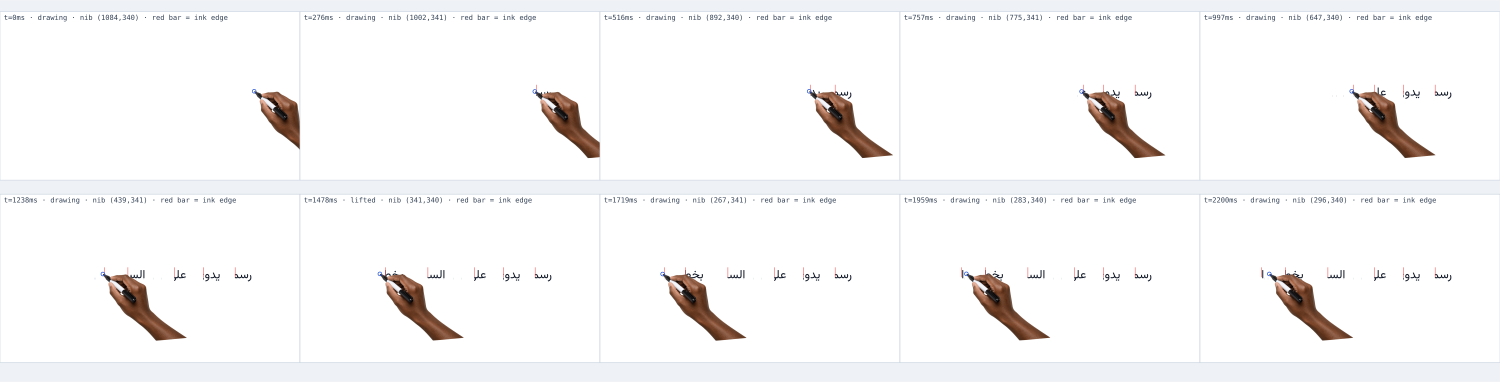
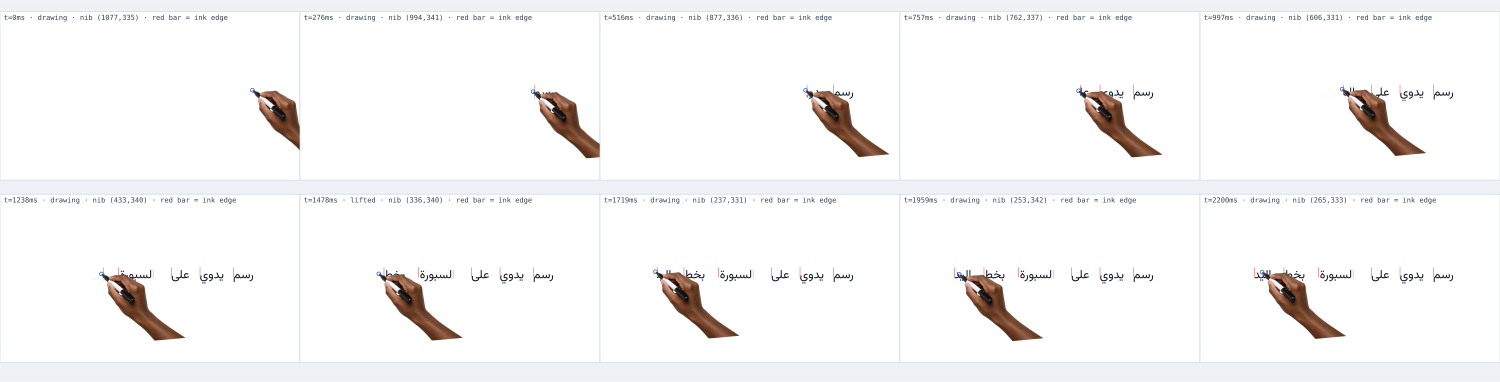
وايت بورد: مسار القلم من الحروف نفسها (inkProfile) بدل خطّ أساس مستقيم
حدّ القصّ يعرف كم زحف الحبر ولا يعرف أين داخل الحرف القلم. الآن تُرسم الكلمة مرة
واحدة على canvas مصغّر خارج الشاشة ويُقرأ لكل عمود ارتفاع الحبر الحقيقي (mid/mass)
ومنسوب إلى خطّ القلم 82% نفسه الذي يستخدمه المحرّك لـ unit.y:

- hand.ts: السنّ يمشي على المسار (يصعد مع لام/ألف ويهبط مع كأس س/ع) والرسغ يميل
  مع الميل المحلي (حتى ±16°) على wristTilt القائم؛ الأعمدة الفارغة تحمل آخر ارتفاع
  والأعمدة المجاورة تُعدَّل بمتوسّط مرجّح؛ بلا canvas (jsdom) يعود إلى خطّ الأساس.
- inkProfile.ts: inkProfileFor/inkHeightAt/inkSlopeAt + كاش بمفتاح الخط والنصّ،
  وPEN_LINE_FRAC=0.82، وكل دالة قابلة للاختبار بلا canvas.
- المحرّك يقيس المسار لكل كلمة ويمرّره مع الكتل إلى اليد (stream.profiles).
- إصلاح ترتيب في §13: كان يبني المحرّك قبل تثبيت أبعاد الصناديق فيسقط القياس.
- الاختبارات 759 (كانت 744): §15 للمسار (اتجاهان، فجوات، ميل، حماية من القسمة على
  صفر) + e2e يؤكد أن السنّ يترك خطّ الأساس ويركب ميل الحروف فعليًا.
- الأدلة البصرية: docs/hand-writing.gif و docs/hand-text.png أُعيد توليدهما بمسارات
  مقيسة من مخططات HarfBuzz الحقيقية (raster-cols.mjs عبر sharp).

diff --git a/src/animation/inkProfile.ts b/src/animation/inkProfile.ts
@@ -1,0 +1,147 @@
+/**
+ * The pen path of a shaped run, read from the glyphs themselves.
+ *
+ * A clip edge only knows *how far* the ink has advanced; it cannot know *where inside the letter*
+ * the pen is. So we rasterise the run once, offscreen, and record — for every column — where the
+ * ink actually sits (its mean height) and how much of it there is. The nib then travels along that
+ * path instead of gliding on a straight rule at the baseline, and the wrist tilts with the local
+ * slope: the letter's own shape drives the hand, which is what a drawn-glyph pipeline gives you
+ * and a plain mask cannot.
+ *
+ * Everything degrades gracefully: no canvas (jsdom, SSR) or an unmeasurable run → `null`, and the
+ * caller keeps the straight rule.
+ */
+
+export interface InkProfile {
+  /** how many columns were sampled across the run */
+  n: number
+  /** mean ink height per column, in *raster* px relative to the run's pen line (NaN = empty column) */
+  mid: number[]
+  /** inked fraction of each column, 0..1 (a dot is thin: the pen still passes through it) */
+  mass: number[]
+  /** the raster's width in px (mid/mass are indexed over `n` columns of this width) */
+  width: number
+}
+
+/** Cache keyed by font + text: the same slide animates the same words twice. */
+const profileCache = new Map<string, InkProfile | null>()
+let scratch: HTMLCanvasElement | null | undefined
+
+function scratchCanvas(): HTMLCanvasElement | null {
+  if (scratch !== undefined) return scratch
+  try {
+    scratch = document.createElement('canvas')
+  } catch {
+    scratch = null
+  }
+  return scratch
+}
+
+/** Drop the cached profiles (fonts can change while a deck is edited). */
+export function clearInkProfileCache(): void {
+  profileCache.clear()
+}
+
+/** Where the pen line sits inside a text run's box — the same 82% the engine uses for `unit.y`. */
+export const PEN_LINE_FRAC = 0.82
+
+/**
+ * Build the profile of one run. `boxW`/`boxH` are the run's box in whatever px space the caller
+ * measures in (the engine passes design px); the returned `mid` is in the *same* space, so callers
+ * can add it straight to a pen line.
+ */
+export function inkProfileFor(text: string, font: string, boxW: number, boxH: number): InkProfile | null {
+  const run = text.replace(/\s+/g, ' ').trim()
+  if (!run || !(boxW > 0) || !(boxH > 0)) return null
+  const key = `${font}|${run}|${Math.round(boxW)}x${Math.round(boxH)}`
+  const cached = profileCache.get(key)
+  if (cached !== undefined) return cached
+
+  let profile: InkProfile | null = null
+  const canvas = scratchCanvas()
+  const ctx = canvas?.getContext?.('2d', { willReadFrequently: true }) as CanvasRenderingContext2D | null
+  if (canvas && ctx) {
+    try {
+      const w = Math.max(8, Math.min(600, Math.round(boxW)))
+      const h = Math.max(8, Math.min(400, Math.round(boxH * 1.5))) // room for ascenders/descenders
+      canvas.width = w
+      canvas.height = h
+      ctx.clearRect(0, 0, w, h)
+      ctx.font = font
+      ctx.textBaseline = 'alphabetic'
+      ctx.direction = 'inherit'
+      ctx.fillStyle = '#000'
+      // draw the run as the DOM draws it: RTL text lands right-aligned inside the measured width
+      ctx.fillText(run, 0, boxH * PEN_LINE_FRAC)
+      const img = ctx.getImageData(0, 0, w, h).data
+      const mid: number[] = new Array(w).fill(Number.NaN)
+      const mass: number[] = new Array(w).fill(0)
+      const penLine = boxH * PEN_LINE_FRAC
+      for (let x = 0; x < w; x++) {
+        let sum = 0
+        let count = 0
+        for (let y = 0; y < h; y++) {
+          const a = img[(y * w + x) * 4 + 3]
+          if (a > 40) {
+            sum += y
+            count++
+          }
+        }
+        if (count) {
+          // mean height relative to the pen line, rescaled from raster px to the caller's px space
+          mid[x] = ((sum / count - penLine) * boxW) / w
+          mass[x] = Math.min(1, count / h)
+        }
+      }
+      profile = { n: w, mid, mass, width: boxW }
+    } catch {
+      profile = null
+    }
+  }
+  profileCache.set(key, profile)
+  return profile
+}
+
+/**
+ * The pen's height at `frac` (0..1 of the run already inked, measured from the edge the script
+ * starts at) — the one piece of the profile the hand really needs, and the piece worth testing on
+ * its own.
+ *
+ * Empty columns (the gap between «ب» and «ي», the thin tail of «ر») carry the last known height
+ * instead of snapping the pen back to the baseline, and the neighbours are averaged so the pen
+ * does not jitter column to column.
+ */
+export function inkHeightAt(profile: InkProfile, frac: number, rtl: boolean): number | null {
+  const { n, mid } = profile
+  if (!n) return null
+  const p = frac < 0 ? 0 : frac > 1 ? 1 : frac
+  // RTL runs start inking at their right edge, which is the last raster column
+  const col = Math.round(rtl ? (1 - p) * (n - 1) : p * (n - 1))
+  const dir = rtl ? -1 : 1
+  for (let step = 0; step < n; step++) {
+    const i = col + step * dir // walk forwards in the writing direction first
+    const j = col - step * dir
+    const pick = Number.isFinite(mid[i]) ? i : Number.isFinite(mid[j]) ? j : -1
+    if (pick < 0) continue
+    let sum = 0
+    let count = 0
+    for (let k = Math.max(0, pick - 2); k <= Math.min(n - 1, pick + 2); k++) {
+      if (!Number.isFinite(mid[k])) continue
+      // weight the centre column highest so the average stays honest at letter boundaries
+      sum += mid[k] * (k === pick ? 2 : 1)
+      count += k === pick ? 2 : 1
+    }
+    if (!count) continue
+    return sum / count
+  }
+  return null
+}
+
+/** Local slope (px of height per px of travel) around `frac`, for the wrist tilt. */
+export function inkSlopeAt(profile: InkProfile, frac: number, rtl: boolean, span = 0.06): number {
+  const a = inkHeightAt(profile, frac - span, rtl)
+  const b = inkHeightAt(profile, frac + span, rtl)
+  if (a === null || b === null) return 0
+  const dx = ((span * 2 * profile.width) || 1) * (rtl ? -1 : 1)
+  return (b - a) / dx
+}

diff --git a/src/animation/hand.ts b/src/animation/hand.ts
@@ -26,6 +26,7 @@ import type { ElementBaseInfo } from './engine'
 import { handAsset, handDrawHeight, handKeyFor } from './handAssets'
 import { INK_LEAD, NIB_AHEAD_PX } from './types'
 import { glyphInkFraction } from './glyphClusters'
+import { inkHeightAt, inkSlopeAt, type InkProfile } from './inkProfile'
 import type { HandAssetKey } from './handAssets'
 import type { AnimSpec, WhiteboardHandSide, WhiteboardHandStyle } from './types'
 
@@ -94,6 +95,8 @@ export interface HandCtx {
     lead: number
     /** per-unit cluster widths (design px) — the pieces a pen draws inside one unit */
     clusters?: number[][]
+    /** per-unit pen paths read from the glyphs (null when the run could not be measured) */
+    profiles?: (InkProfile | null)[]
   }
 }
 
@@ -335,6 +338,21 @@ export function computeHandFrame(spec: AnimSpec, el: ElementBaseInfo, localT: nu
   return null
 }
 
+/** Where the pen is inside a unit: px of ink laid from its start edge, and the fraction done. */
+function clusterProgress(widths: number[], total: number, p: number): { drawn: number; frac: number } {
+  let cum = 0
+  for (let k = 0; k < widths.length; k++) {
+    const cw = widths[k]
+    // index, not value: two clusters of the same width must not look like the last one
+    if (p <= (cum + cw) / total || k === widths.length - 1) {
+      const q = clamp((p * total - cum) / cw, 0, 1)
+      return { drawn: cum + glyphInkFraction(q) * cw, frac: (cum + glyphInkFraction(q) * cw) / total }
+    }
+    cum += cw
+  }
+  return { drawn: total, frac: 1 }
+}
+
 /* -------------------------------------------------------------- text frame */
 
 /**
@@ -352,7 +370,7 @@ function streamFrame(
   pose: HandPose,
   localT: number,
   units: { x: number; y: number; w?: number; h?: number }[],
-  stream: { stride: number; lead: number; clusters?: number[][] },
+  stream: { stride: number; lead: number; clusters?: number[][]; profiles?: (InkProfile | null)[] },
   rtl: boolean,
 ): HandFrame {
   const n = units.length
@@ -377,34 +395,29 @@ function streamFrame(
   const travel = raw === i && w > drawMs && i < n - 1
 
   let x: number
-  let y: number
+  let y = u.y
+  let slopeTilt = 0
   if (w <= drawMs || i >= n - 1) {
     // drawing (or holding the last stroke while the pen has nowhere left to go)
     const p = clamp(w / drawMs, 0, 1)
     const widths = stream.clusters?.[i]
     const total = widths?.reduce((a, b) => a + b, 0) ?? 0
+    const profile = stream.profiles?.[i] ?? null
+    const inked = total > 0 && widths?.length ? clusterProgress(widths, total, p) : { drawn: p * box, frac: p }
     if (widths?.length && total > 0 && box > 0) {
-      // Inside the unit the ink advances cluster by cluster — the same boundaries and the same
-      // in-glyph speed profile the engine tweens, so the nib rides the edge of the glyph that is
-      // actually being drawn instead of gliding at an average speed.
-      let cum = 0
-      let drawn = 0
-      for (let k = 0; k < widths.length; k++) {
-        const cw = widths[k]
-        // index, not value: two clusters of the same width must not look like the last one
-        if (p <= (cum + cw) / total || k === widths.length - 1) {
-          const q = clamp((p * total - cum) / cw, 0, 1)
-          drawn = cum + glyphInkFraction(q) * cw
-          break
-        }
-        cum += cw
-      }
-      // the ink the pen has already laid, measured from the unit's start edge (right, for RTL)
-      x = entry + dir * (drawn + ahead)
+      x = entry + dir * (inked.drawn + ahead)
     } else {
       x = entry + dir * (p * box + ahead)
     }
-    y = u.y
+    // The pen path: the nib rises and dips with the letter it is inside of, and the wrist tilts
+    // with the local slope. Without a measured path (no canvas) the nib stays on the pen line.
+    if (profile) {
+      const height = inkHeightAt(profile, inked.frac, rtl)
+      if (height !== null) y = clamp(u.y + height, u.y - (u.h ?? 40) * 1.2, u.y + (u.h ?? 40) * 1.2)
+      slopeTilt = clamp(Math.atan(inkSlopeAt(profile, inked.frac, rtl)) * (180 / Math.PI), -16, 16)
+    } else {
+      y = u.y
+    }
   } else {
     // pen lift: leave this unit's exit edge and land on the next unit's entry edge
     const next = units[i + 1]
@@ -418,7 +431,7 @@ function streamFrame(
   return frame({
     x: x + tremor(t, 0.7),
     y: y + tremor(t, 3.9) + Math.sin(i * 0.6) * 0.4,
-    angle: wristTilt(dir * 0.9, 0) + tremor(t, 8.2) * 0.7,
+    angle: wristTilt(dir * 0.9, 0) + slopeTilt + tremor(t, 8.2) * 0.7,
     scale: scaleForText(units[i]?.h ?? units[units.length - 1]?.h),
     opacity: 1,
     asset,

diff --git a/src/animation/engine.ts b/src/animation/engine.ts
@@ -19,6 +19,7 @@ import { createTimeline, stagger, TextSplitter } from 'animejs'
 import type { Timeline } from 'animejs'
 import { compileEase, springSegmentDuration } from './easing'
 import { canvasFontOf, clusterWidthsFor, glyphInkFraction } from './glyphClusters'
+import { inkProfileFor, type InkProfile } from './inkProfile'
 import { broadcastHandFrame, clearHandFrame, computeHandFrame } from './hand'
 import { sampleMotionPath, type PathSample } from './path'
 import type { AnimProp, AnimSpec, Keyframe, Pt, RevealSpec, TextAnimSpec } from './types'
@@ -274,7 +275,7 @@ export function buildSlideEngine(ctx: BuildCtx): SlideEngine {
   const splitNodes = new Map<string, TweenNodes>()
 
   /** Per-animation stream timing (unit stride + pen-travel lead + per-unit clusters), for the hand. */
-  const streams = new Map<string, { stride: number; lead: number; clusters: number[][] }>()
+  const streams = new Map<string, { stride: number; lead: number; clusters: number[][]; profiles: (InkProfile | null)[] }>()
 
   const measureUnits = (spec: AnimSpec): { x: number; y: number; w?: number; h?: number }[] | undefined => {
     const cached = unitCache.get(spec.id)
@@ -324,7 +325,10 @@ export function buildSlideEngine(ctx: BuildCtx): SlideEngine {
         stagger: effectiveTextMode(spec, el) === 'words' ? spec.text!.stagger : undefined,
         // ink order: the DOM order, unless the animation inks the units backwards
         units: measured && spec.text?.from === 'end' ? [...measured].reverse() : measured,
-        stream: stream && measured?.length ? { stride: stream.stride, lead: stream.lead, clusters: stream.clusters } : undefined,
+        stream:
+          stream && measured?.length
+            ? { stride: stream.stride, lead: stream.lead, clusters: stream.clusters, profiles: stream.profiles }
+            : undefined,
       })
       if (frame && frame.active) {
         activeFrame = frame
@@ -404,7 +408,12 @@ export function buildSlideEngine(ctx: BuildCtx): SlideEngine {
         const width = box?.width ?? 0
         return clusterWidthsFor(w.textContent ?? '', font, width) ?? []
       })
-      streams.set(spec.id, { stride, lead, clusters })
+      // the pen path of each word (from its own glyphs) so the nib follows the letter's shape
+      const profiles = wordNodes.map((w) => {
+        const box = w.getBoundingClientRect?.()
+        return inkProfileFor(w.textContent ?? '', font, box?.width ?? 0, box?.height ?? 0)
+      })
+      streams.set(spec.id, { stride, lead, clusters, profiles })
       // element-level properties (opacity/scale/…) belong to the whole element, not to a word
       nodes = node
     }

diff --git a/tests/animations/entry.ts b/tests/animations/entry.ts
@@ -14,3 +14,4 @@ export { animRegistry } from '../../src/editor/anim/registry'
 export { subscribeHandFrame, getHandFrame, clearHandFrame, computeHandFrame, plateFor, HAND_ENTRY_MS, HAND_EXIT_MS } from '../../src/animation/hand'
 export { HAND_ASSETS, handAsset, handAssetFor, handKeyFor, handDrawWidth, handDrawHeight } from '../../src/animation/handAssets'
 export { clusterWidthsMeasured, clearClusterCache, canvasFontOf, glyphInkFraction } from '../../src/animation/glyphClusters'
+export { inkProfileFor, inkHeightAt, inkSlopeAt, clearInkProfileCache, PEN_LINE_FRAC } from '../../src/animation/inkProfile'

diff --git a/ANIMATION_ARCHITECTURE.md b/ANIMATION_ARCHITECTURE.md
@@ -441,5 +441,5 @@ interface Slide { …, animations?: AnimSpec[] }
 
 - نموذج/محرك: `animation/{types,presets,engine,schedule,morph,easing,path,serialize,migrate,hand,HandOverlay}.ts`.
 - واجهة: `editor/anim/{AnimationLibrary,AnimationDock,EasingEditor,preview,library,registry,perf}.tsx?` + زر «حركة» عائم على التحديد في `SelectionOverlay` + تبويب «حركة» في `RightPanel` + Morph في تبويب الانتقال.
-- **اختبار حقيقي يمنع الأزرار الميتة:** `npm run test:anim` (`tests/animations/`) — يبني كل تأثير عبر المحرك داخل jsdom ويؤكد تغيّر DOM (transform/opacity/filter/clip)، إضافةً للجدولة وMorph وJSON وتتبع يد الوايت بورد (التصاق السنّ بحدّ الحبر، اتجاه الكتابة RTL/LTR، صور اليد ومطابقتها للمانيفست) ودورة المتجر الكاملة، إضافةً إلى حبر النصّ (بريسِت الرسم على نصّ = كتابة لا مسح كتلة، والعربية بحبر متّصل يزحف داخل الكلمة واليد على الحدّ) وحبر الكتل المتّصلة (حدود الحروف + منحنى سرعة القلم + السنّ السابق للحبر، مقيسًا مقابل `--kad-tx` الحيّ وإطار اليد الذي يبثّه المحرّك). **744 تحققًا، 0 فشل.**
+- **اختبار حقيقي يمنع الأزرار الميتة:** `npm run test:anim` (`tests/animations/`) — يبني كل تأثير عبر المحرك داخل jsdom ويؤكد تغيّر DOM (transform/opacity/filter/clip)، إضافةً للجدولة وMorph وJSON وتتبع يد الوايت بورد (التصاق السنّ بحدّ الحبر، اتجاه الكتابة RTL/LTR، صور اليد ومطابقتها للمانيفست) ودورة المتجر الكاملة، إضافةً إلى حبر النصّ (بريسِت الرسم على نصّ = كتابة لا مسح كتلة، والعربية بحبر متّصل يزحف داخل الكلمة واليد على الحدّ) وحبر الكتل المتّصلة (حدود الحروف + منحنى سرعة القلم + السنّ السابق للحبر، مقيسًا مقابل `--kad-tx` الحيّ وإطار اليد الذي يبثّه المحرّك)، ومسار القلم المقروء من الحروف (`inkProfile`: ارتفاع الحبر لكل عمود → صعود/هبوط السنّ وميل الرسغ). **759 تحققًا، 0 فشل.**
 - **يد الوايت بورد:** أُعيد بناؤها كاملًا (يد مصوّرة + نقطة التصاق معلنة + حركة مشتقّة من `clip` ومن مواضع النص المقيسة)، وبريسِتات الرسم تتحوّل تلقائيًا إلى **حبر نصّي** عند تطبيقها على نصّ (المحرك لا يكتب `clip-path` على نصّ) — البحث والقرارات في [`docs/WHITEBOARD_HAND.md`](./docs/WHITEBOARD_HAND.md).
